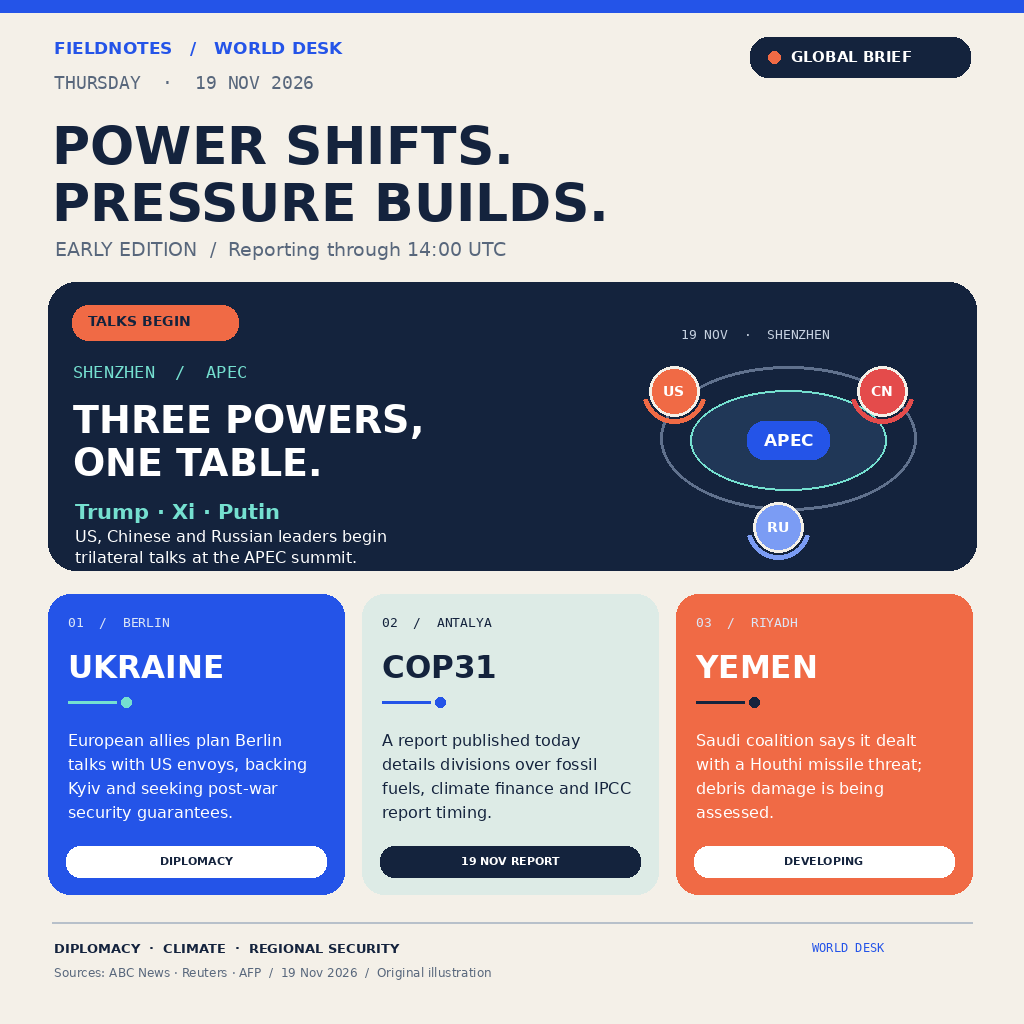
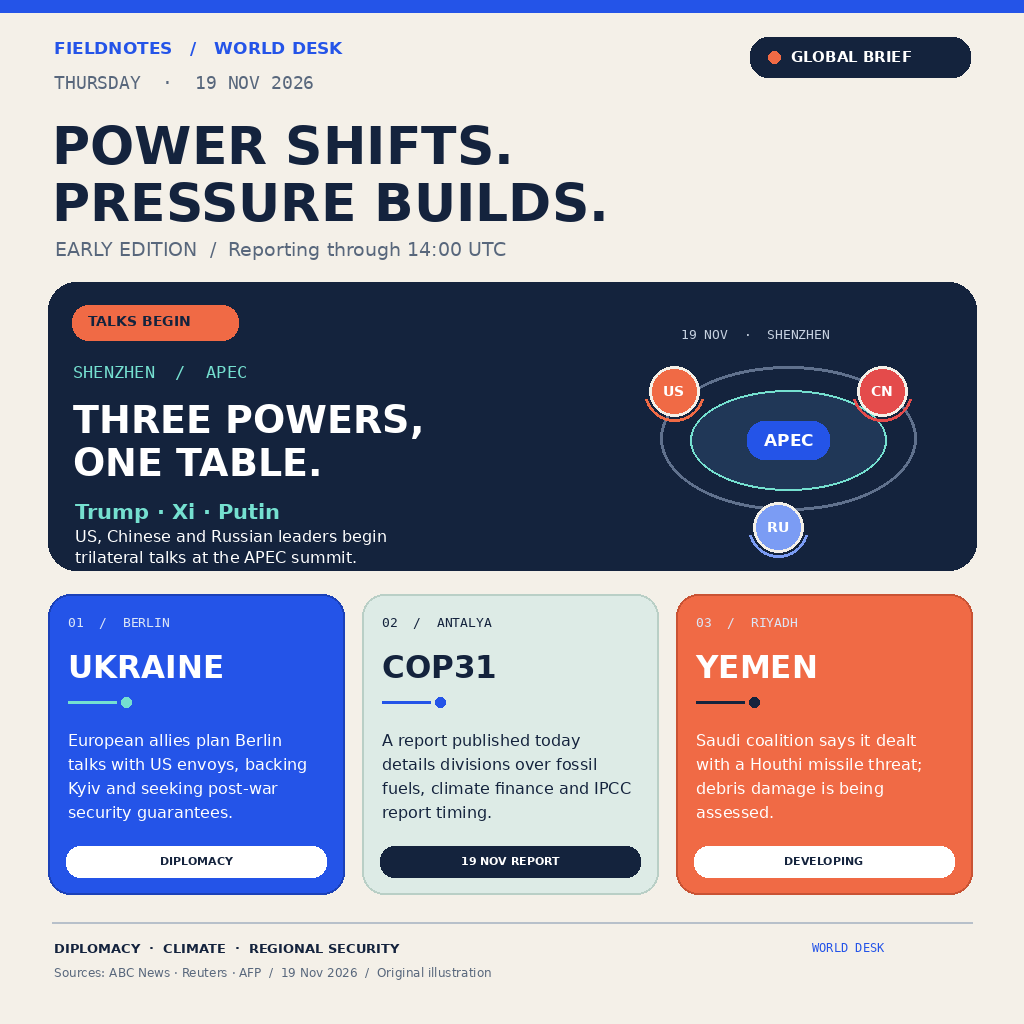
Polish: thinner seat arcs, card outlines, SPDX license tag

diff --git a/render.py b/render.py
@@ -105,9 +105,9 @@ def draw_table(draw):
         (753, 502, RU_BLUE, "RU"),
     ]
     for x, y, color, label in seats:
-        # thick arc hugging the underside of the seat, in the seat color
-        draw.arc((x - 7, y - 7, x + 57, y + 57), start=15, end=165,
-                 fill=color, width=5)
+        # arc hugging the underside of the seat, in the seat color
+        draw.arc((x - 5, y - 5, x + 55, y + 55), start=15, end=165,
+                 fill=color, width=3)
         draw.ellipse((x, y, x + 50, y + 50), fill=color, outline=BG, width=3)
         centered_text(draw, x + 25, y + 25, label, bold(14), WHITE)
 
@@ -132,7 +132,14 @@ def draw_lead_panel(draw):
 
 def draw_card(draw, x, y, fill, kicker, kicker_color, title, title_color,
               icon_color, body, body_color, tag_fill, tag_text, tag_color):
-    draw.rounded_rectangle((x, y, x + 296, y + 300), radius=22, fill=fill)
+    outline_map = {
+        CARD2_FILL: "#B9CFC6",
+        BLUE: "#1B41B8",
+        ORANGE: "#C95334",
+    }
+    outline = outline_map.get(fill)
+    draw.rounded_rectangle((x, y, x + 296, y + 300), radius=22, fill=fill,
+                           outline=outline, width=2)
     draw.text((x + 20, y + 20), kicker, font=mono(13), fill=kicker_color)
     draw.text((x + 20, y + 55), title, font=bold(31), fill=title_color)
     # icon: horizontal line + filled dot under the title
